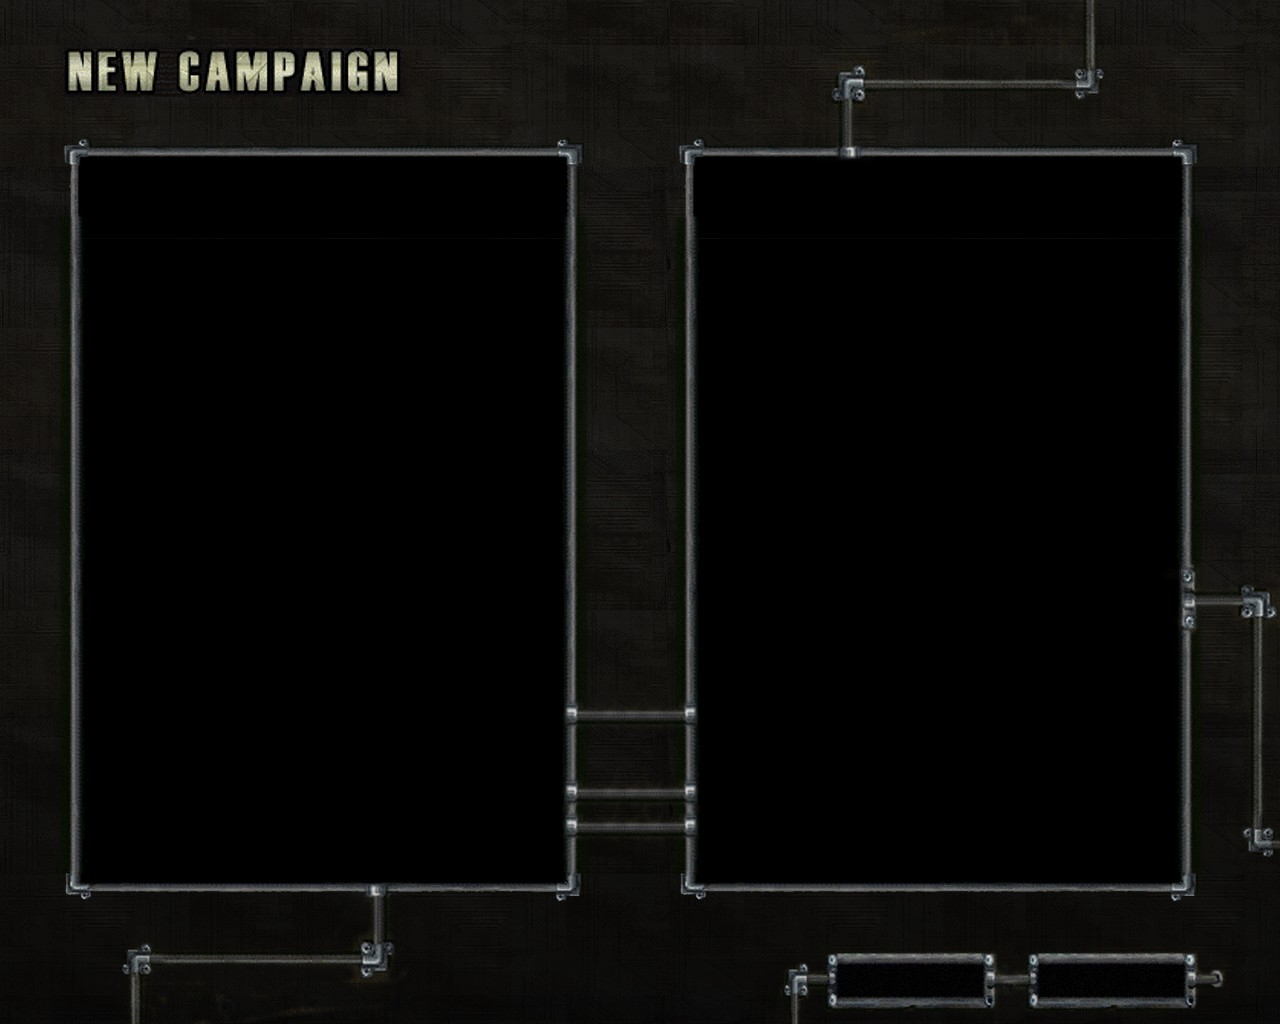
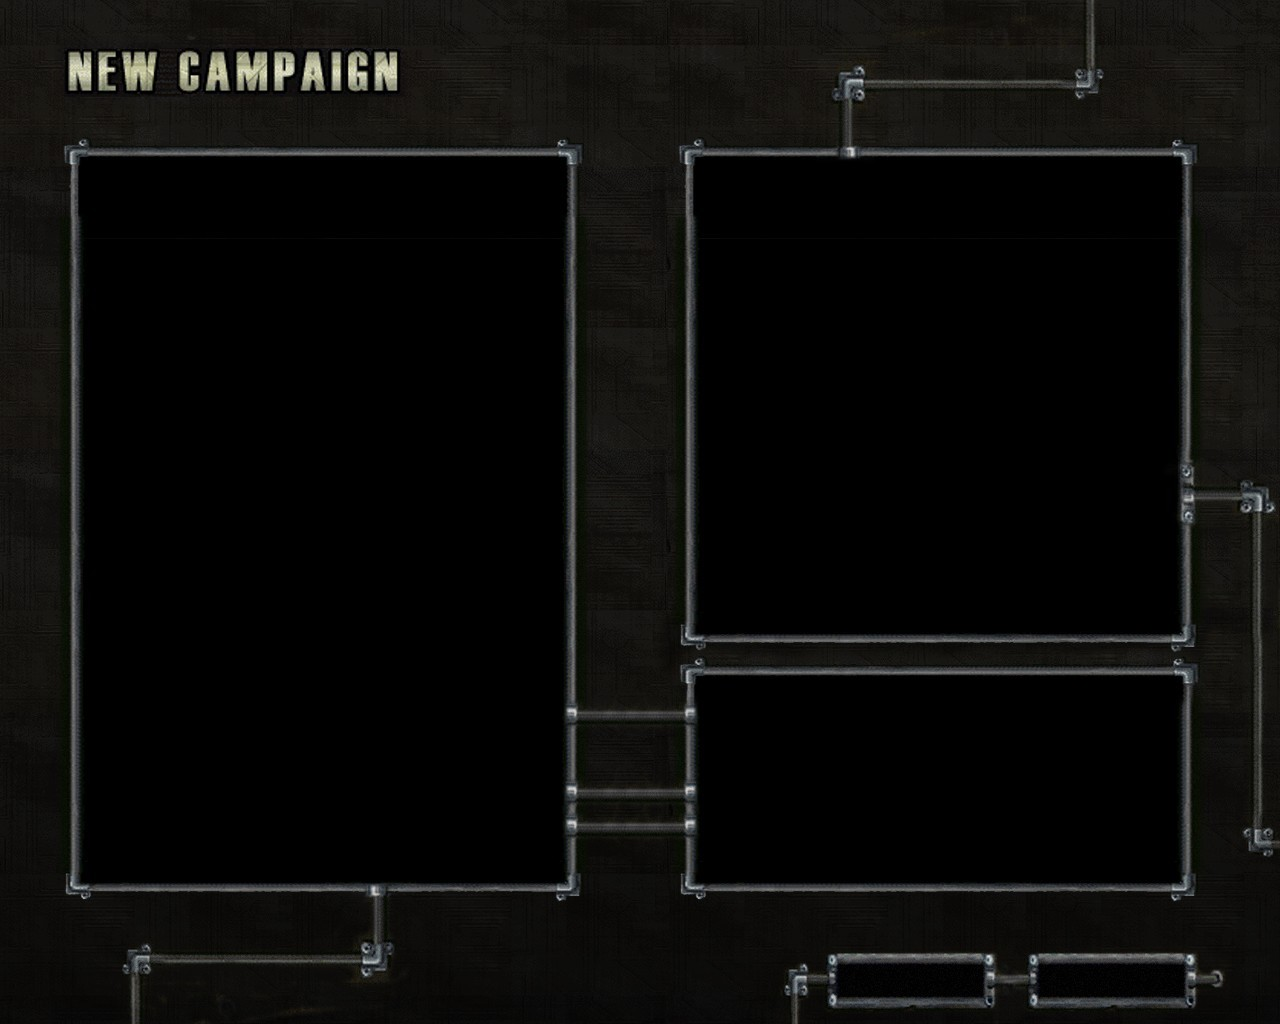
* we now have a working campaign screen

Changed region(s): [[0.5312, 0.4375, 1.0, 0.6875]]

diff --git a/src/menu.cpp b/src/menu.cpp
@@ -1591,6 +1591,26 @@ void campaign_main_menu(void)
 	campaign_area.load_tdf("gui/campaign.area");
 	if( !campaign_area.background )	campaign_area.background = gfx->glfond;
 
+	std::list< String > campaign_list;
+	HPIManager->GetFilelist("camps\\*.tdf",&campaign_list);
+	if( campaign_area.get_object("campaign.campaign_list") && campaign_list.size() > 0 ) {
+		GUIOBJ *guiobj = campaign_area.get_object("campaign.campaign_list");
+		guiobj->Text.clear();
+		guiobj->Text.resize( campaign_list.size() );
+		int n = 0;
+		for(std::list< String >::iterator i = campaign_list.begin() ; i != campaign_list.end() ; i++, n++ )
+			guiobj->Text[n] = i->substr(6, i->size() - 10 );
+		}
+
+	ANIMS side_logos;
+	{
+		byte *data = HPIManager->PullFromHPI( "anims\\newgame.gaf" );
+		side_logos.load_gaf( data, true, NULL );
+		if( data )	free( data );
+	}
+
+	cTAFileParser	*campaign_parser = NULL;
+
 	bool done=false;
 
 	bool start_game = false;
@@ -1599,6 +1619,8 @@ void campaign_main_menu(void)
 	int amy = -1;
 	int amz = -1;
 	int amb = -1;
+	int last_campaign_id = -1;
+	int mission_id = -1;
 
 	do
 	{
@@ -1613,6 +1635,44 @@ void campaign_main_menu(void)
 		amy = mouse_y;
 		amz = mouse_z;
 		amb = mouse_b;
+
+		if( campaign_area.get_object("campaign.campaign_list") && campaign_list.size() > 0 ) {				// If we don't have campaign data, then load them
+			GUIOBJ *guiobj = campaign_area.get_object("campaign.campaign_list");
+			if( guiobj->Pos >= 0 && guiobj->Pos < guiobj->Text.size() && last_campaign_id != guiobj->Pos ) {
+				if( !campaign_parser )	delete campaign_parser;
+				last_campaign_id = guiobj->Pos;
+				mission_id = -1;
+				campaign_parser = new cTAFileParser( "camps\\" + guiobj->Text[ guiobj->Pos ] + ".tdf" );
+
+				guiobj = campaign_area.get_object("campaign.mission_list");
+				if( guiobj ) {
+					guiobj->Text.clear();
+					int i = 0;
+					String current_name = "";
+					while( !(current_name = campaign_parser->PullAsString( format( "MISSION%d.missionname", i ) ) ).empty() ) {
+						guiobj->Text.push_back( current_name );
+						i++;
+						}
+					}
+					
+				guiobj = campaign_area.get_object("campaign.logo");
+				if( guiobj ) {
+					guiobj->Data = 0;
+					for( int i = 0 ; i < ta3d_sidedata.nb_side ; i++ )
+						if( Lowercase( ta3d_sidedata.side_name[ i ] ) == Lowercase( campaign_parser->PullAsString( "HEADER.campaignside" ) ) ) {
+							if( side_logos.nb_anim > i )
+								guiobj->Data = side_logos.anm[i].glbmp[0];
+							break;
+							}
+					}
+				}
+			}
+
+		if( campaign_area.get_object("campaign.mission_list") ) {
+			GUIOBJ *guiobj = campaign_area.get_object("campaign.mission_list");
+			if( guiobj->Pos >= 0 && guiobj->Pos < guiobj->Text.size() )
+				mission_id = guiobj->Pos;
+			}
 
 		if( campaign_area.get_state( "campaign.b_ok" ) || key[KEY_ENTER] ) {
 			while( key[KEY_ENTER] )	{	rest( 20 );	poll_keyboard();	}
@@ -1636,8 +1696,12 @@ void campaign_main_menu(void)
 		gfx->flip();
 	}while(!done);
 
+	if( campaign_area.get_object("campaign.logo") )	campaign_area.get_object("campaign.logo")->Data = 0;
+
 	if( campaign_area.background == gfx->glfond )	campaign_area.background = 0;
 	campaign_area.destroy();
+
+	if( campaign_parser )	delete	campaign_parser;
 
 	gfx->unset_2D_mode();	// Quitte le mode de dessin d'allegro
 

diff --git a/src/gaf.h b/src/gaf.h
@@ -188,6 +188,8 @@ public:
 
 	void load_gaf( byte *buf, bool doConvert=false, const char *fname = NULL )
 	{
+		if( buf == NULL )	return;
+
 		nb_anim=get_gaf_nb_entry(buf);
 
 		anm = new ANIM[nb_anim];
